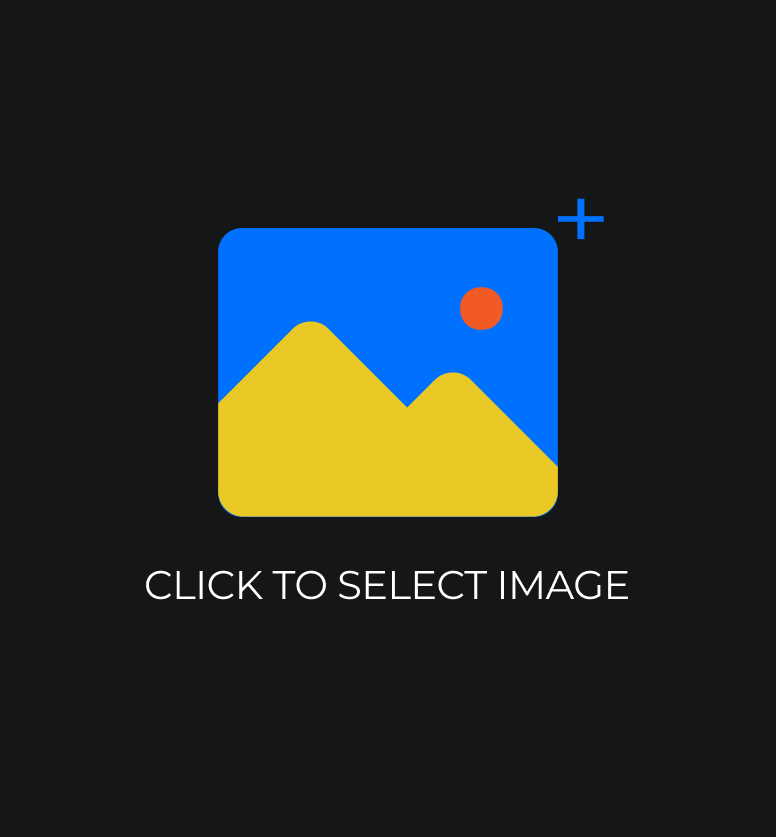
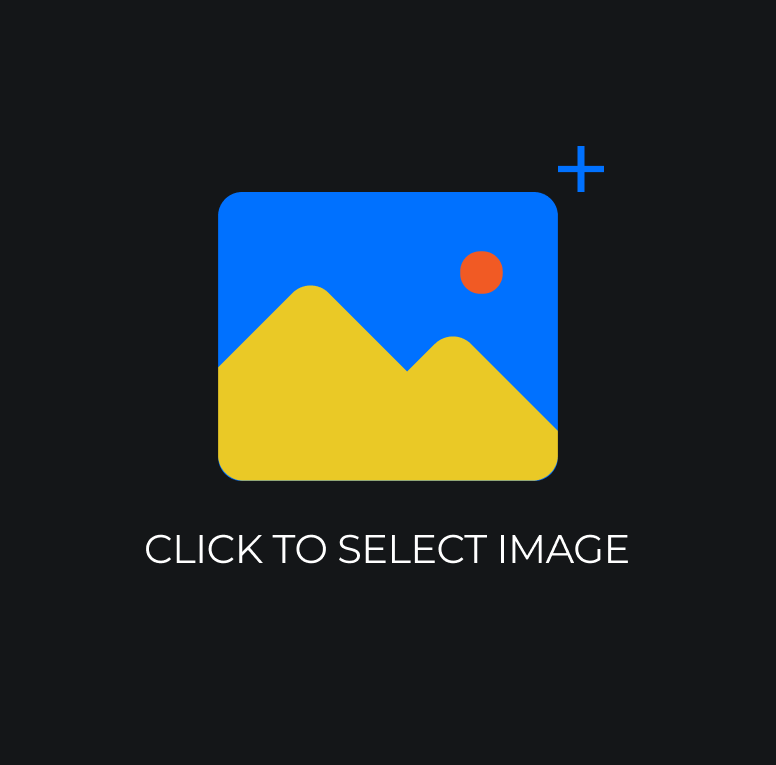
:lipstick: add title, add footer

diff --git a/components/icons.tsx b/components/icons.tsx
@@ -198,3 +198,39 @@ export function IconParkDownPicture(props: SVGProps<SVGSVGElement>) {
     </svg>
   )
 }
+
+export function PhTwitterLogoBold(props: SVGProps<SVGSVGElement>) {
+  return (
+    <svg
+      xmlns="http://www.w3.org/2000/svg"
+      xmlnsXlink="http://www.w3.org/1999/xlink"
+      width="1em"
+      height="1em"
+      viewBox="0 0 256 256"
+      {...props}
+    >
+      <path
+        fill="currentColor"
+        d="M251.1 67.4A12 12 0 0 0 240 60h-28.2A52 52 0 0 0 116 88v.8c-37.3-11.5-67.2-41-67.5-41.3a12 12 0 0 0-20.3 6.4c-9 49.6 6 83 20.1 102.2a112.3 112.3 0 0 0 22 22.5C55.9 193 36 200.7 35.8 200.8a11.7 11.7 0 0 0-7.2 7.5a12.3 12.3 0 0 0 1.4 10.4c1.9 2.9 13.4 17.3 50 17.3c72.1 0 132.5-55.1 139.3-126.4l29.2-29.1a12.2 12.2 0 0 0 2.6-13.1Zm-51.8 28.4a11.3 11.3 0 0 0-3.5 7.7C191.9 164.3 141 212 80 212a89.4 89.4 0 0 1-12.5-.8c10.4-6.7 22.2-16.1 30.5-28.5a12.1 12.1 0 0 0 1.6-9.8a11.8 11.8 0 0 0-6.2-7.6c-2-1.1-45.6-24.2-43.9-85.4c17.2 13.1 45 30.7 76.5 35.9a12 12 0 0 0 14-11.8V88a28.3 28.3 0 0 1 28.4-28a28 28 0 0 1 25.3 16.8a11.9 11.9 0 0 0 11 7.2h6.3Z"
+      ></path>
+    </svg>
+  )
+}
+
+export function MaterialSymbolsArrowOutwardRounded(props: SVGProps<SVGSVGElement>) {
+  return (
+    <svg
+      xmlns="http://www.w3.org/2000/svg"
+      xmlnsXlink="http://www.w3.org/1999/xlink"
+      width="1em"
+      height="1em"
+      viewBox="0 0 24 24"
+      {...props}
+    >
+      <path
+        fill="currentColor"
+        d="m16 8.4l-8.875 8.9q-.3.3-.713.3q-.412 0-.712-.3t-.3-.713q0-.412.3-.712L14.6 7H7q-.425 0-.713-.287Q6 6.425 6 6t.287-.713Q6.575 5 7 5h10q.425 0 .712.287Q18 5.575 18 6v10q0 .425-.288.712Q17.425 17 17 17t-.712-.288Q16 16.425 16 16Z"
+      ></path>
+    </svg>
+  )
+}

diff --git a/components/ControlBar.tsx b/components/ControlBar.tsx
@@ -140,21 +140,25 @@ const ControlBar = (props: ControlBarProps) => {
 
   return (
     <>
-      <div className="fixed bottom-4 left-1/2 w-full max-w-[768px] p-4 -translate-x-1/2">
+      <div className="fixed bottom-4 left-1/2 w-full max-w-[640px] p-4 -translate-x-1/2">
         <div className="flex justify-between p-3 rounded-2xl bg-white/30 backdrop-blur">
           <div className="w-0 flex-1 ">
             <div>
-              <Button onClick={() => setStageState((v) => ({ ...v, preview: !v.preview }))}>
+              <Button
+                onClick={() => setStageState((v) => ({ ...v, preview: !v.preview }))}
+                title="preview"
+              >
                 {stage.preview ? <IconParkOutlinePreviewOpen /> : <IconParkPreviewCloseOne />}
               </Button>
             </div>
             <div className=" mt-2">
-              <Button onClick={() => full()}>
+              <Button onClick={() => full()} title="full">
                 <AntDesignFullscreenOutlined />
               </Button>
             </div>
             <div className=" mt-2">
               <Button
+                title="reset"
                 onClick={() => {
                   resetCropperState()
                   resetImgState()
@@ -170,7 +174,7 @@ const ControlBar = (props: ControlBarProps) => {
           </div>
           <div className="w-0 flex-1">
             <div className=" text-right">
-              <Button onClick={() => onExport()}>
+              <Button onClick={() => onExport()} title="save the cropped image">
                 <IconParkDownPicture />
               </Button>
             </div>

diff --git a/pages/index.tsx b/pages/index.tsx
@@ -1,6 +1,7 @@
 import type { NextPage } from "next"
 import dynamic from "next/dynamic"
 import Head from "next/head"
+import { MaterialSymbolsArrowOutwardRounded, PhTwitterLogoBold } from "../components/icons"
 
 const App = dynamic(() => import("../components/App"), { ssr: false })
 
@@ -21,7 +22,20 @@ const Home: NextPage = () => {
         <App></App>
       </main>
 
-      <footer></footer>
+      <footer className="fixed bottom-0 left-0 right-0 pb-1 text-xs flex items-center justify-center text-white/30">
+        <a
+          href="mailto:xuebagod@gmail.com"
+          className="flex items-center h-4 border-b-[1px] border-white/20"
+        >
+          send feadback <MaterialSymbolsArrowOutwardRounded style={{ fontSize: 8 }} />
+        </a>
+        <a
+          href="https://twitter.com/didan64037534"
+          className="h-4 border-b-[1px] border-white/20 ml-3 pt-0.5"
+        >
+          <PhTwitterLogoBold />
+        </a>
+      </footer>
     </div>
   )
 }

diff --git a/constants/index.ts b/constants/index.ts
@@ -1,6 +1,6 @@
 export const PLACEMENT_IMG = "/select.png"
 export const PLACEMENT_WIDTH = 776
-export const PLACEMENT_HEIGHT = 837
+export const PLACEMENT_HEIGHT = 765
 
 export const CONTAINER_H_WHITE_SPACE = 48
 export const CONTAINER_V_WHITE_SPACE = 264
